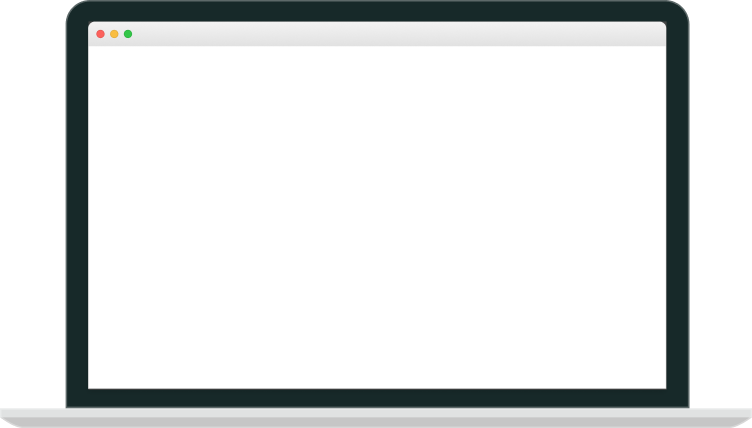
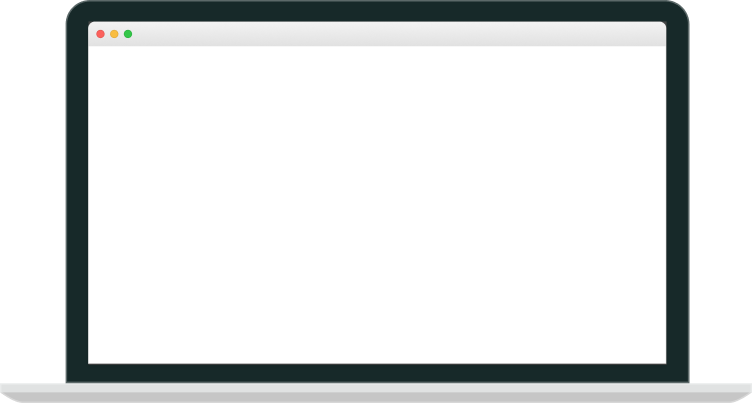
Add demo gif

Changed region(s): [[0.1223, 0.0298, 0.887, 0.1191], [0.0918, 0.8933, 0.9176, 0.9529]]

diff --git a/index.css b/index.css
@@ -83,7 +83,7 @@ h2 {
   justify-content: space-around;
 }
 .main--right {
-
+  position: relative;
 }
 .main-text {
   max-width: 300px;
@@ -99,6 +99,12 @@ h2 {
 }
 .main-image {
   max-width: 700px;
+}
+.main-demo {
+  position: absolute;
+  top: 43px;
+  left: 83px;
+  width: 536px;
 }
 
 /* section: supported */

diff --git a/index.html b/index.html
@@ -32,6 +32,7 @@
       </div>
       <div class="main--right">
         <img class="main-image" src="assets/laptop.png"/>
+        <img class="main-demo" src="assets/demo.gif"/>
       </div>
     </div>
 
